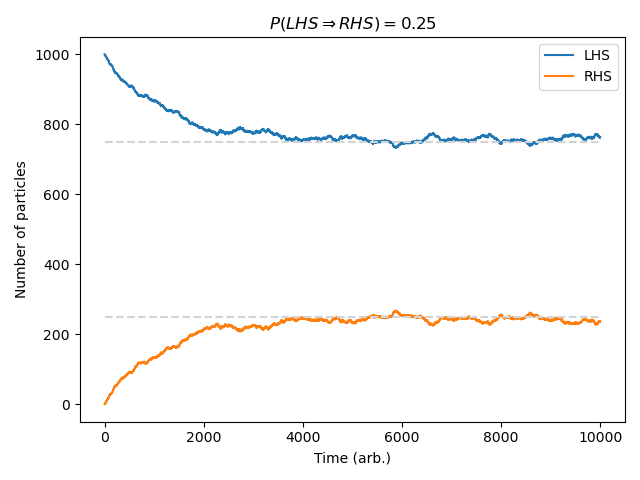
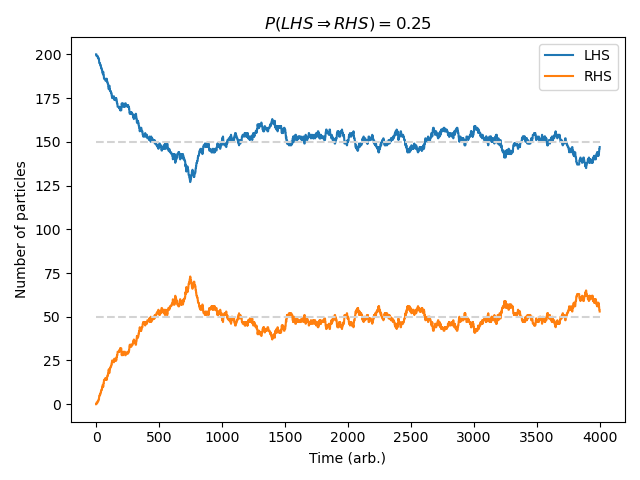
Lowered timeframe on partitioned box simulations

diff --git a/Lab 1/partitioned.py b/Lab 1/partitioned.py
@@ -50,7 +50,9 @@ def simple_partition(N, M, time):
     plt.ylabel("Number of particles")
     plt.legend()
     plt.tight_layout()
-    print(r"Simulation time = ${}ms$".format(elapsed_time))
+    plt.hlines(1/2*N,0,time,'lightgrey','--')
+    plt.savefig(fname = "Lab 1/IMAGES/PCG64_Lec_Ex")
+    print("Simulation time = {}ms".format(elapsed_time))
 
 def simple_partition_PROB(N, M, time, prob):
 
@@ -96,11 +98,13 @@ def simple_partition_PROB(N, M, time, prob):
     plt.legend()
     plt.tight_layout()
     #plt.show()
-    plt.savefig(fname = "Lab 1/PCG64_{}".format(int(prob*100)))
-    print(r"Simulation time = ${}ms$".format(elapsed_time))
+    plt.savefig(fname = "Lab 1/IMAGES/PCG64_{}".format(int(prob*100)))
+    print("Simulation time = {}ms".format(elapsed_time))
 
-rng = Generator(PCG64())
+rng = Generator(PCG64(seed=2010)) # Change accordingly
+simple_partition(200,200,4000) 
+
 prob = 0.25
 while prob < 1:
-    simple_partition_PROB(1000,1000,10000,prob)
+    simple_partition_PROB(200,200,4000,prob)
     prob+=0.25

diff --git a/Lab 1/rng_comp.py b/Lab 1/rng_comp.py
@@ -234,6 +234,7 @@ plt.savefig(fname="MT19937-7381")
 ################################################
 # Time taken for each random generator
 ################################################
+
 print(
     "\nTimes: \n PCG64-6 =",
     timearr[0] / 1e-6,
